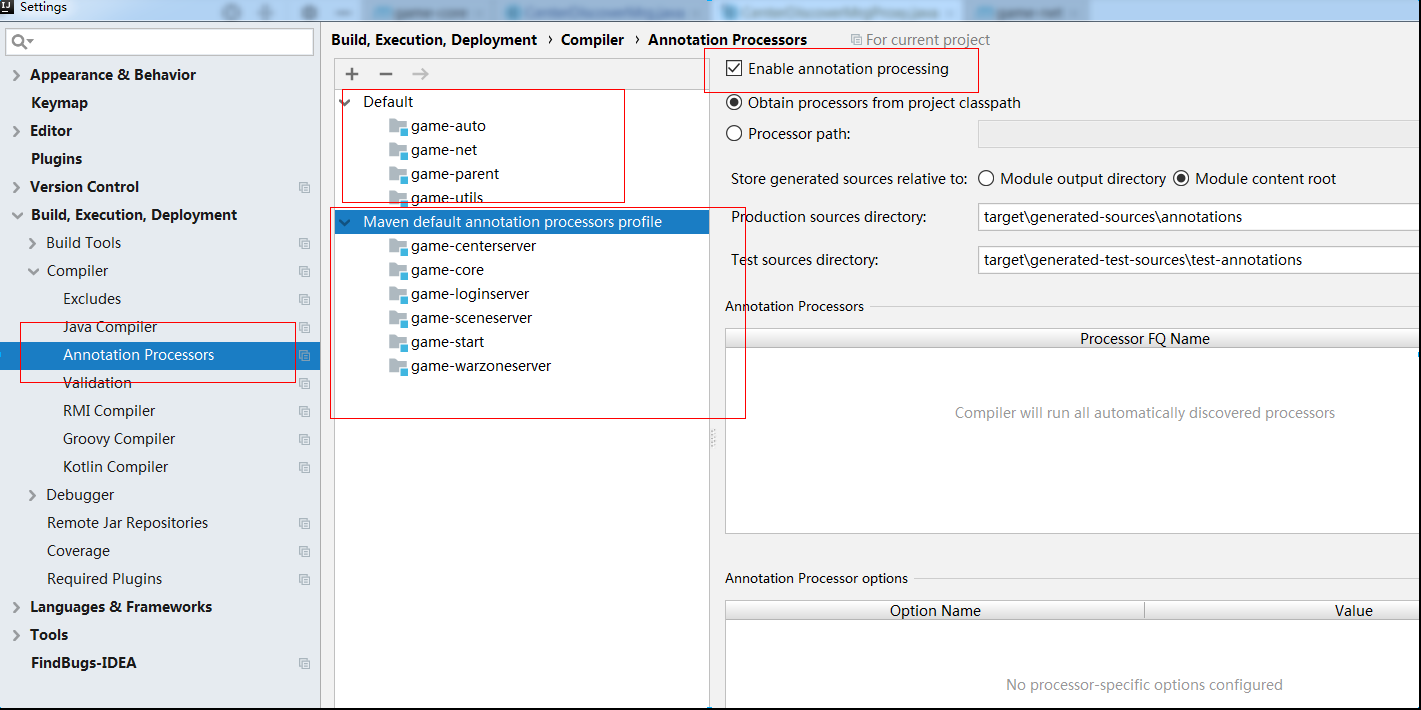
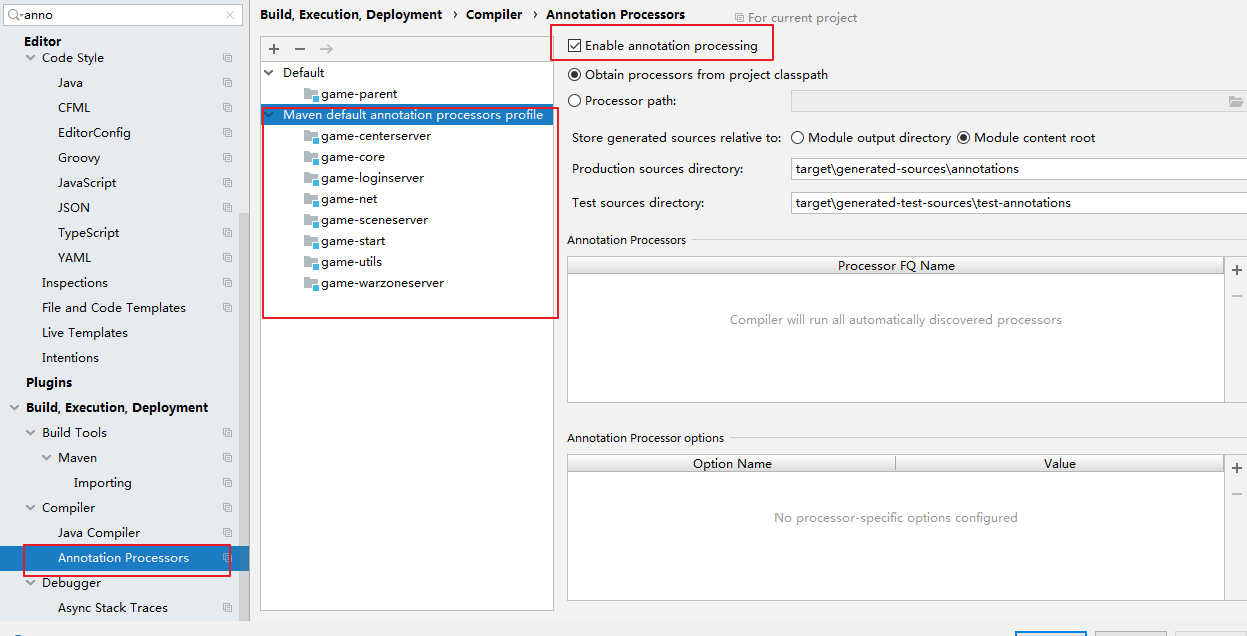
跨模块的rpc调用必须在core模块中声明，这是必须的，不是临时解决方案，原因在 rpcservice的packageinfo中进行了解释

diff --git a/game-core/src/main/java/com/wjybxx/fastjgame/rpcservice/package-info.java b/game-core/src/main/java/com/wjybxx/fastjgame/rpcservice/package-info.java
@@ -15,7 +15,26 @@
  */
 
 /**
- * 所有的Rpc调用都放在这里声明
+ * Q: 为什么跨module的RPC接口必须定义在core模块？不能编译其它模块的时候将代码生成在core模块吗？<br>
+ * A: 我之前确实是这个思路，不过遇见了一个奇怪的现象，那就是java文件确确实实存在于core模块下，写代码的时候
+ * 也没提示任何错误，但是一旦开始编译，就会提示<b>找不到符号</b>！类明明在那里啊，为啥找不到符号啊？？？
+ * --> 后来才想明白，编译的顺序是这样的：
+ * <pre>
+ *   compile game-util
+ *   compile game-net
+ *   compile game-core
+ *   compile game-center
+ *   compile game-scene
+ *   ......
+ * </pre>
+ * 在编译center或scene的时候，将生成的代码放入到game-core，确实是放进去了，但是game-core已经完成编译了！<br>
+ * 放进去的类本轮是无法参与到编译的，也就找不到对应的类！<br>
+ * 如果将生成的类放在src下，可以在下一轮参与编译，如果将生成的类放在target下，那么莫得用。<br>
+ *
+ * Q: 那为什么不将生成的类放在src下呢？<br>
+ * A: 1. 它是根据当前代码生成的，是冗余的，不应该存在于版本库的。 2.多次编译才能得到正确结果，这样很不安全，也很繁琐。
+ *
+ * 最近可能加班加多了，这几天脑子老是短路，下班路上才想明白，也得遇见过这个坑的才会明白，查是查不到的。
  *
  * @author houlei
  * @version 1.0

diff --git a/game-net/src/main/java/com/wjybxx/fastjgame/misc/ReflectBasedProtocolCodec.java b/game-net/src/main/java/com/wjybxx/fastjgame/misc/ReflectBasedProtocolCodec.java
@@ -37,7 +37,8 @@ import java.util.*;
 
 /**
  * 基于反射的协议编解码工具，它基于protoBuf自定义编码格式。
- * 相对于{@link JsonBasedProtocolCodec}传输的数据量要少得多(1/3 - 1/2)，而且编解码性能也更高(2-3倍)，加上网络传输的影响，性能差距会更大。
+ * 相对于{@link JsonBasedProtocolCodec}传输的数据量要少得多(1/3 - 1/2)，更少的数据量当然带来更快编码速度，
+ * 加上网络传输的影响，这个差距会被放大。
  *
  * 建议能单例就单例，能减少内存占用。
  *

diff --git a/README.md b/README.md
@@ -1,5 +1,11 @@
 ### fastjgame
-fastjgame 为 fast java game framework的缩写，如名字一样，该项目的目标是一个高性能，高稳定性的游戏架构。  它将是一个分布式多线程架构，它有着良好的多线程模型。  高性能从网络层开始： 支持异步消息，异步rpc调用，同步rpc调用;  IO框架为Netty,HttpClient为OkHttp3; 支持断线重连，支持websocket和tcp同时接入。 支持google protoBuf，json以及自定义消息序列化方式。 支持自定义消息映射;  分布式协调框架：zookeeper 作为配置中心，节点发现，以及不时的分布式锁需要 NoSQL数据库： mongodb 习惯了mongodb回不去MySQL
+fastjgame 为 fast java game framework的缩写，如名字一样，该项目的目标是一个高性能，高稳定性的游戏架构。  
+1. 它将是一个分布式多线程架构，它有着良好的多线程模型。  
+2. 高性能从网络层开始： 支持异步消息，异步rpc调用，同步rpc调用;  
+3. IO框架为Netty,HttpClient为OkHttp3; 支持断线重连，支持websocket和tcp同时接入。 
+4. 支持google protoBuf，json以及自定义消息序列化方式。 支持自定义消息映射;  
+5. 分布式协调框架：zookeeper 作为配置中心，节点发现，以及不时的分布式锁需要  
+6. NoSQL数据库： mongodb 习惯了mongodb回不去MySQL
 
 ### 全新版本 2019-08-05
 2019年8月5日 迎来了fastjgame的全新版本，线程模型大改，底层通信重写，网络层与逻辑层独立。
@@ -11,21 +17,22 @@ fastjgame 为 fast java game framework的缩写，如名字一样，该项目的
 ### Rpc优化 2019-08-21
 1. Rpc调用更加标准化。
 2. 编解码更快，功能支持更强，请查看**SerializableClass**和**SerializableField**注解。
-3. RpcService代码自动生成，你必须将game-auto打为jar包才可以使用代码生成工具，请确保所有模块都启用了注解处理器。
+3. RpcService代码自动生成，你必须将game-auto打为jar包才可以使用代码生成工具(注解处理器必须是jar包形式)，请确保所有模块都启用了注解处理器。
 
 ### 如何打包 Rpc注解处理器？
-1. install game-utils 到本地仓库
-2. install game-net 到本地仓库
-3. install game-auto 到本地仓库
-4. 将game-auto从项目project-structure中移除，然后就可以正常使用注解处理器了。
-5. 重新编译，此时应该不会出现报错。
+1. 将game-auto添加到project-structure
+2. install game-utils 到本地仓库
+3. install game-net 到本地仓库
+4. install game-auto 到本地仓库
+5. 将game-auto从项目project-structure中移除（game-auto）。
+6. Ok，此时Rpc注解处理器已经可用，重新编译，可消除缺少类文件的报错。
 
 ### 高性能从网络层开始  
 1. IO框架为Netty,HttpClient为OkHttp3;   
 2. 支持断线重连，支持websocket和tcp同时接入。  
-3. 支持google protoBuf，json以及自定义消息序列化方式。   
-4. 支持自定义消息映射; 
-5. 支持异步消息，异步rpc调用，同步rpc调用。
+3. 支持自定义协议解析-实现**ProtocolCodec**。
+4. 有基于protoBuf的协议传输，也有基于json的协议传输，都是ProtocolCodec的实现类。
+5. 实现了一套完整的rpc，支持异步消息，异步rpc调用，同步rpc调用。
 6. 网络层多线程模型(8/5日改动)
 
 #### 游戏的玩法架构已确定：  
